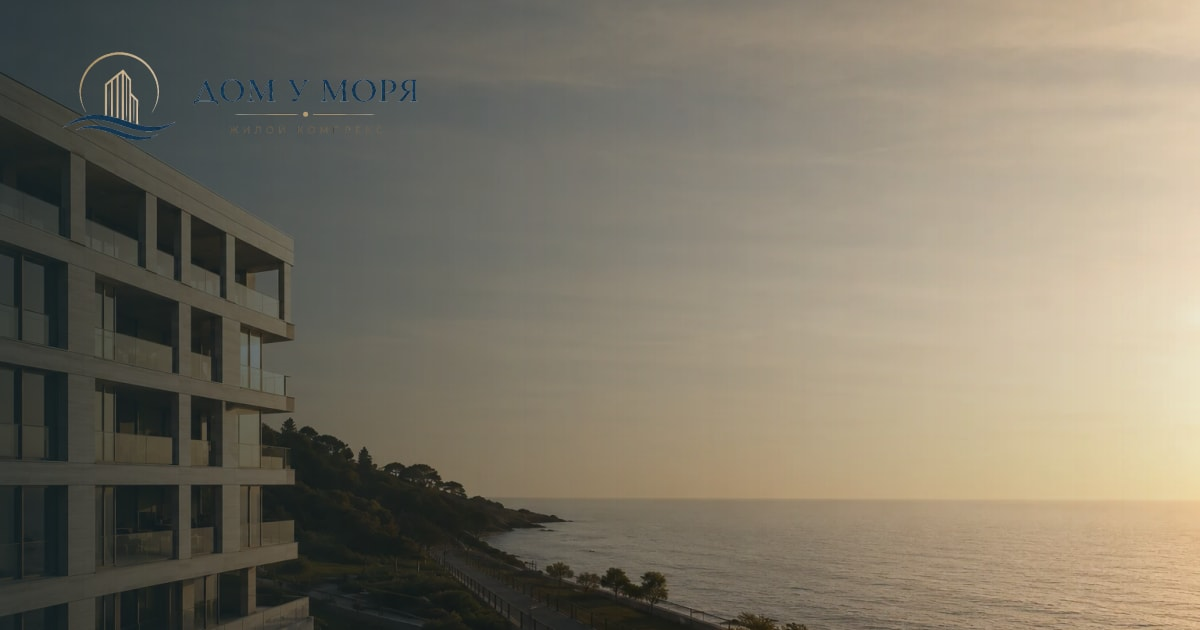
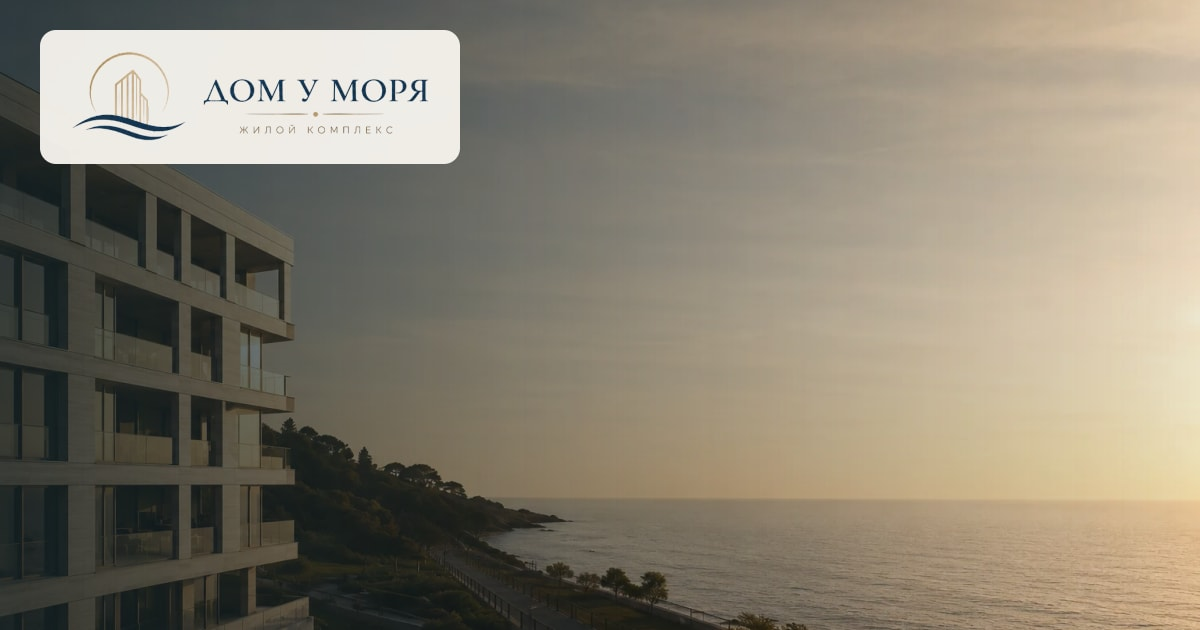
SEO-001 stage 6: complete SEO contracts and technical visual performance acceptance

Changed region(s): [[0.0308, 0.0302, 0.4008, 0.2714]]

diff --git a/script.js b/script.js
@@ -434,7 +434,7 @@ function renderLightbox(){
   if(lb.mode==='plan'){
     state.planViews[lb.lotId]=item.type;
     const card=document.querySelector(`[data-lot-id="${lb.lotId}"]`);
-    if(card){card.querySelector('img').src=item.src;card.querySelector('img').alt=item.title;card.querySelector('.plan-thumb').href=item.src;card.querySelectorAll('[data-plan-view]').forEach(v=>v.setAttribute('aria-pressed',String(v.dataset.planView===item.type)));}
+    if(card){card.querySelector('img').src=ContentModel.previewPath({local_path:item.src});card.querySelector('img').alt=item.title;card.querySelector('.plan-thumb').href=item.src;card.querySelectorAll('[data-plan-view]').forEach(v=>v.setAttribute('aria-pressed',String(v.dataset.planView===item.type)));}
   }
   lb.zoom=1;lb.x=lb.y=0;applyZoom();
 }

diff --git a/SEO-001-REPORT.md b/SEO-001-REPORT.md
@@ -32,7 +32,7 @@ SHA-256 57 оригиналов зафиксированы в `tests/seo-origina
 
 Для трёх страниц build генерирует OG/Twitter из собственных title/description. Абсолютные og:url/image и идентификаторы графа появляются только при SITE_URL. Карточка `assets/og-project.jpg` — 1200×630 JPEG из неизменённых hero и логотипа; генератор сохранён. Права на публичную публикацию остаются неподтверждёнными.
 
-JSON-LD разделяет оператора ИП Саврасову, ГК «Садовое кольцо», ApartmentComplex в Мариуполе, WebSite и WebPage. Нет Offer/наличия/рейтингов/адреса агентства или фиктивного официального статуса. В preview ссылки между сущностями представлены вложенными объектами без вымышленных идентификаторов. Rich Results Test требует публичного сайта и не выполнялся.
+JSON-LD разделяет оператора ИП Саврасову, ГК «Садовое кольцо», ApartmentComplex в Мариуполе, WebSite и WebPage. Нет Offer/наличия/рейтингов/адреса агентства или фиктивного официального статуса. В preview ссылки между сущностями представлены локальными blank-node идентификаторами (`_:`), без вымышленных публичных URL и копий сущностей. Rich Results Test требует публичного сайта и не выполнялся.
 
 ## Этап 4 — планировки
 
@@ -41,3 +41,11 @@ JSON-LD разделяет оператора ИП Саврасову, ГК «С
 ## Этап 5 — загрузка и шрифты
 
 9 WOFF2 без subset, неизменные cmap/метрики, TTF fallback и OFL сохранены. Браузер выбирает WOFF2 без двойной загрузки. Hero и исходная архитектурная иллюстрация не менялись. Три CSS-фона заменены нативными lazy IMG с прежней композицией и адаптивным object-position. У логотипа указаны реальные размеры. Без JS изображения работают. CSS/JS в dist минимизируются только по пробелам, без mangling, переписывания синтаксиса и изменения defer. HTML не схлопывается ради сохранения типографики; сжатие/кэш/редиректы описаны в HOSTING-SEO.md. Новый Sharp обновлён до 0.35.5: npm audit — 0 уязвимостей.
+
+## Этап 6 — техническая приёмка
+
+PASS: check, test, build, test:dist, test:eng-001 (оба файла), check-rec003-integration, test:seo (unit + Chromium JS/no-JS на 1440/768/390/320), test:previews, test:performance, test:catalog-transfer, release reproducibility, git diff --check. После финальных правок повторены npm ci/check/build/release/SEO; npm audit — 0 уязвимостей. Все браузерные приёмочные проверки направлены на единственный готовый dist по 4183; helper оставлен совместимым с прежними окружениями через QA_BASE_URL.
+
+Исправления по QA: карточка после lightbox снова использует лёгкий preview; тест ждёт декодирования оригинала перед переключением (быстрое переключение раньше отменяло загрузку с ERR_ABORTED); no-JS тест не использует helper инъекции стилей, ожидающий отключённый JS callback. OG-логотип размещён на светлой подложке. В локальном JSON-LD применены blank-node ID без дублирования сущностей. Проверка согласованности SEO выполняется в staging до принятия сборки. Production без домена и с тестовым доменом отклоняется до замены dist.
+
+Растрирование всех 57 пар проверено в Chromium на 1440 DPR1 и 390 DPR2 (114 сравнений). Максимальная MAE каналов 4,709/255 при пороге 5, отличия сглаживания; это не заявление о попиксельной идентичности вектора и растра. Визуально сверены 19 групп, включая цифры/мебель, и плотные схемы этажей; исходники для любого увеличения остаются SVG.

diff --git a/HOSTING-SEO.md b/HOSTING-SEO.md
@@ -15,3 +15,7 @@
 `node scripts/generate-seo-media.cjs`: JPEG 1200×630 из локальных неизменённых hero/logo. Для публичного использования нужны права.
 
 Обычная сборка использует проверенные готовые производные; регенерация не нужна на хостинге. HTML сохраняет whitespace из-за утверждённой типографики и встроенного JSON; CSS/JS минимизируются без переименования и изменения синтаксиса. PDF-библиотеки остаются динамическими.
+
+## Локальная приёмка
+
+Перед браузерными тестами собрать dist и выбрать его через существующий `preview.py use /абсолютный/путь/dist`. Для существующих UI/catalog/ENG/REC проверок задать `QA_BASE_URL=http://127.0.0.1:4183/`, чтобы тесты использовали готовую сборку и не запускали свои временные серверы. Пример: `QA_BASE_URL=http://127.0.0.1:4183/ npm test`. Новые замеры используют только 4183. Поддержка прежних изолированных тестовых серверов в helper сохранена для других окружений, но в SEO-приёмке не используется.
